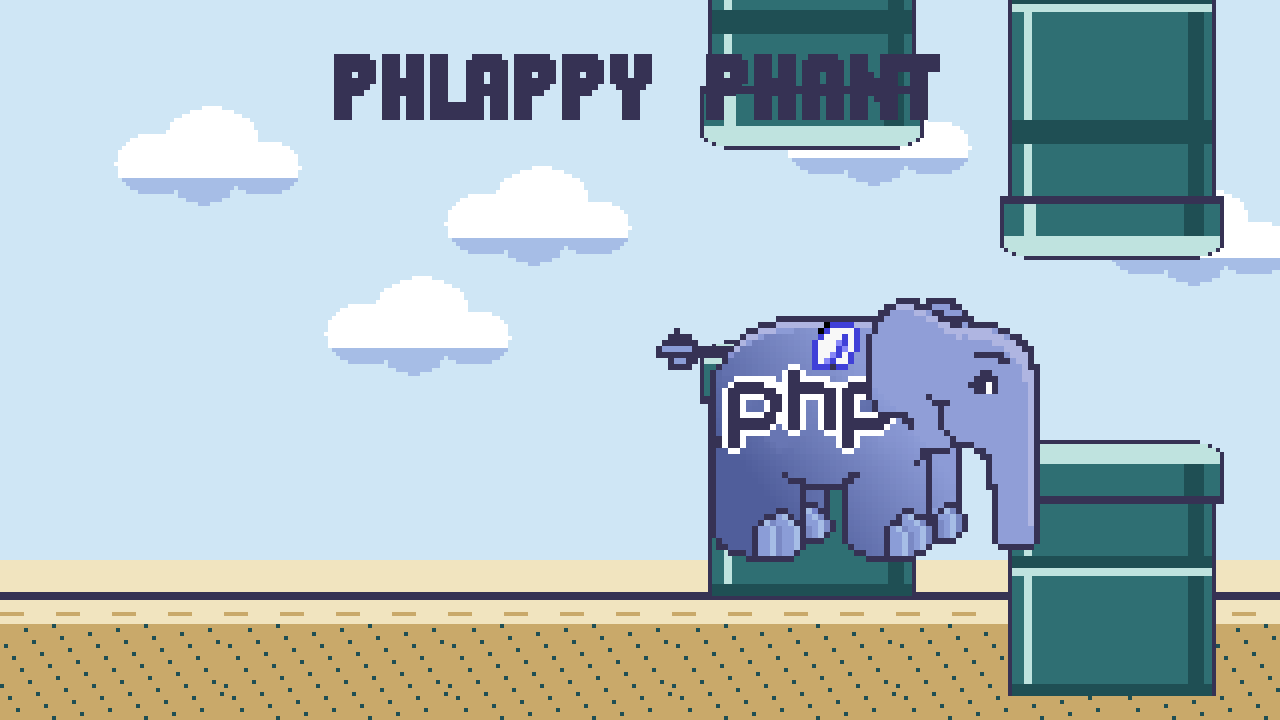
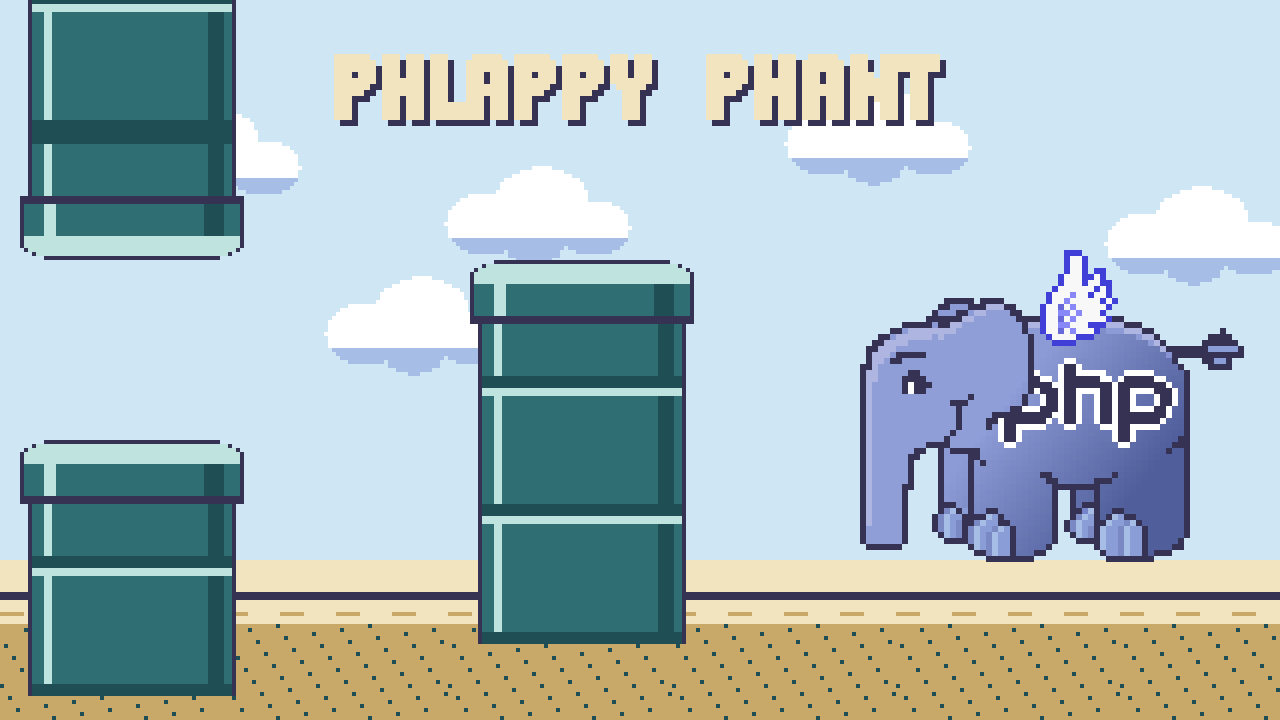
Phlappy Phant: fly leftward on the left-facing frames, with a few wing beats per flap
The traced sheet now carries two rows of two frames; the game uses the left-facing bottom row and the scene mirrors so the phant flies leftward with the barrels coming from the left, its right edge 28 % of the visible width in from the right (the status viewport reports that edge and the spec checks it). After each flap the wing beats three times at 45 ms per frame, then rests folded. The poster keeps the same arrangement.

diff --git a/games/phlappy-phant/src/Render/Scene.php b/games/phlappy-phant/src/Render/Scene.php
@@ -36,7 +36,7 @@ final class Scene
 
 	/** Accessible hit regions published by the menu renderer. */
 	public array $regions = [];
-	/** Output width and height, logical scale, and the phant's screen x. */
+	/** Output width and height, logical scale, and the screen x of the phant's right edge. */
 	public array $viewport = [0, 0, 1, 0];
 	private Atlas $atlas;
 	private Atlas $fontAtlas;
@@ -113,8 +113,11 @@ final class Scene
 		$scale = (float)$k;
 		$visible = $width / $scale;
 		$offsetY = $height / $scale - Simulation::HEIGHT;
+		// The phant faces left and flies leftward: world x grows toward the left edge of the screen, and the phant's
+		// right edge sits about 28 % of the visible width in from the right.
 		$phantX = max(60.0, min(200.0, .28 * $visible));
-		$this->viewport = [$width, $height, $scale, $phantX * $scale];
+		$right = $width - $phantX * $scale;
+		$this->viewport = [$width, $height, $scale, $right];
 		$camera = new Camera(0, 0, $width, $height);
 
 		$elapsed = max(0, min(.25, $seconds - $this->blendClock));
@@ -142,13 +145,15 @@ final class Scene
 			if($x < -self::TILE_W) $x += $count * $period;
 			if($x > $visible + self::TILE_W) continue;
 
-			$sprites[] = $this->tile(self::GID_CLOUD, $x * $scale, (20 + ($i * 53) % $skyBand) * $scale, $scale, $tint);
+			$sprites[] = $this->tile(
+				self::GID_CLOUD, $width - ($x + self::TILE_W) * $scale, (20 + ($i * 53) % $skyBand) * $scale, $scale, $tint
+			);
 		}
 
 		foreach($game->barrels as $barrel)
 		{
 			$bx = $barrel->previousX + ($barrel->x - $barrel->previousX) * $alpha;
-			$screenX = ($phantX + $bx) * $scale;
+			$screenX = $right - ($bx + self::TILE_W) * $scale;
 
 			if($screenX > $width || $screenX + self::TILE_W * $scale < 0) continue;
 
@@ -176,15 +181,16 @@ final class Scene
 
 		for($x = -$groundShift; $x < $visible; $x += self::TILE_W)
 		{
-			$sprites[] = $this->tile(self::GID_GROUND, $x * $scale, (Simulation::GROUND_Y + $offsetY) * $scale, $scale, $tint);
-			$sprites[] = $this->tile(self::GID_GROUND, $x * $scale, (Simulation::GROUND_Y + self::TILE_H + $offsetY) * $scale, $scale, $tint);
+			$screenX = $width - ($x + self::TILE_W) * $scale;
+			$sprites[] = $this->tile(self::GID_GROUND, $screenX, (Simulation::GROUND_Y + $offsetY) * $scale, $scale, $tint);
+			$sprites[] = $this->tile(self::GID_GROUND, $screenX, (Simulation::GROUND_Y + self::TILE_H + $offsetY) * $scale, $scale, $tint);
 		}
 
 		{
 			$y = $game->previousY + ($game->y - $game->previousY) * $alpha;
 			$phant = new Sprite(
 				self::GID_PHANT + $game->frame
-				, ($phantX + Simulation::PHANT_W / 2) * $scale
+				, $right - Simulation::PHANT_W / 2 * $scale
 				, ($y + Simulation::PHANT_H / 2 + $offsetY) * $scale
 				, .5
 				, .5
@@ -196,13 +202,13 @@ final class Scene
 			if($game->phase === 'dead')
 			{
 				$this->deathSpin = min(1.0, $this->deathSpin + $elapsed * 3);
-				$phant->rotation = M_PI / 2 * $this->deathSpin;
+				$phant->rotation = -M_PI / 2 * $this->deathSpin;
 				$phant->flipY = $this->deathSpin >= 1;
 			}
 			else
 			{
 				$this->deathSpin = 0;
-				$phant->rotation = $game->phase === 'playing' ? max(-.45, min(1.2, $game->vy / 600)) : 0.0;
+				$phant->rotation = $game->phase === 'playing' ? -max(-.45, min(1.2, $game->vy / 600)) : 0.0;
 			}
 
 			$sprites[] = $phant;

diff --git a/games/phlappy-phant/src/Simulation.php b/games/phlappy-phant/src/Simulation.php
@@ -35,7 +35,8 @@ final class Simulation
 	public const GAP_MARGIN = 40;
 	public const NIGHT_EVERY = 10;
 	public const DEAD_SETTLE = .6;
-	public const WING_DOWN = .14;
+	public const WING_BEATS = 3;
+	public const WING_BEAT = .09;
 
 	/** One of ready, playing, or dead. */
 	public string $phase = 'ready';
@@ -46,7 +47,7 @@ final class Simulation
 	public float $scroll = 0;
 	/** Seconds since the run began, for the idle bob and ear animation. */
 	public float $age = 0;
-	/** Wing frame: zero up, one down for a moment after each flap. */
+	/** Wing frame: zero folded, one spread; the wing beats a few times after each flap, then rests folded. */
 	public int $frame = 0;
 	public int $score = 0;
 	/** Zero for day, one for night. */
@@ -160,7 +161,9 @@ final class Simulation
 
 			$this->vy = min(self::MAX_FALL, $this->vy + self::GRAVITY * self::STEP);
 			$this->y = max(0, $this->y + $this->vy * self::STEP);
-			$this->frame = $this->age - $this->flappedAt < self::WING_DOWN ? 1 : 0;
+			$since = $this->age - $this->flappedAt;
+			$this->frame = $since < self::WING_BEATS * self::WING_BEAT && (int)floor($since / (self::WING_BEAT / 2)) % 2 === 0
+				? 1 : 0;
 			$speed = self::speedFor($this->score);
 
 			foreach($this->barrels as $barrel) $barrel->x -= $speed * self::STEP;

diff --git a/games/phlappy-phant/tests/run.php b/games/phlappy-phant/tests/run.php
@@ -36,9 +36,12 @@ $idle->step(true);
 check($idle->phase === 'playing', 'the first flap starts the run');
 check(abs($idle->vy - (Simulation::FLAP_VY + Simulation::GRAVITY * Simulation::STEP)) < 1e-9, 'a flap sets the rise before gravity applies');
 check($idle->consumeEvents() === ['flap'], 'the first flap is reported once');
-check($idle->frame === 1, 'the wing drops on a flap');
-for($i = 0; $i < 12; $i++) $idle->step();
-check($idle->frame === 0, 'the wing lifts again shortly after');
+check($idle->frame === 1, 'the wing spreads on a flap');
+$beats = 0;
+$previous = $idle->frame;
+for($i = 0; $i < 30; $i++) { $idle->step(); if($idle->frame !== $previous) $beats++; $previous = $idle->frame; }
+check($beats >= 4 && $beats <= 6, 'the wing beats a few times after a flap');
+check($idle->frame === 0, 'the wing rests folded afterwards');
 check($idle->consumeEvents() === [], 'events are cleared once consumed');
 
 $falling = new Simulation(1);

diff --git a/games/phlappy-phant/docs/architecture.md b/games/phlappy-phant/docs/architecture.md
@@ -8,7 +8,7 @@ Native PHP tests cover the generator, the idle bob, the first flap, gravity and 
 
 ## Viewport-filling rendering
 
-`Render\Scene` draws the 480-unit world at the largest whole-number scale that keeps the playable 440 units in view, anchored to the ground (a taller frame shows more sky), and derives the visible width from the frame, placing the phant at about 28 % of that width (clamped). Labels, the title wordmark and the shared menu renderer use whole-number scales too, so the bitmap glyphs and tiles are never resampled. It draws the horizon band, parallax clouds, each barrel pair as stacked cap and ring tiles, the scrolling ground and the phant, whose rotation follows its vertical velocity and which tumbles when dead. Day and night blend the device clear colour and a tint over the world. The HUD uses the engine bitmap font through a cached glyph layout, and menus come from the shared `MenuRenderer`, whose hit regions the browser mirrors as accessible buttons.
+`Render\Scene` draws the 480-unit world at the largest whole-number scale that keeps the playable 440 units in view, anchored to the ground (a taller frame shows more sky), and derives the visible width from the frame, with the left-facing phant flying leftward, its right edge about 28 % of that width in from the right (clamped). Labels, the title wordmark and the shared menu renderer use whole-number scales too, so the bitmap glyphs and tiles are never resampled. It draws the horizon band, parallax clouds, each barrel pair as stacked cap and ring tiles, the scrolling ground and the phant, whose rotation follows its vertical velocity and which tumbles when dead. Day and night blend the device clear colour and a tint over the world. The HUD uses the engine bitmap font through a cached glyph layout, and menus come from the shared `MenuRenderer`, whose hit regions the browser mirrors as accessible buttons.
 
 ## Browser boundary
 

diff --git a/games/phlappy-phant/README.md b/games/phlappy-phant/README.md
@@ -2,7 +2,7 @@
 
 A pixel-art Flappy Bird homage built with Phonics. The elePHPant flaps between stacks of DB silo barrels; every ten barrels the sky turns from day to night. A deterministic fixed-step PHP simulation owns the flight, the seeded barrel gaps, collisions and the score; the browser module supplies taps, sounds, fullscreen, the local best score and accessible menu hit targets.
 
-Unlike the letterboxed games, Phlappy Phant fills whatever frame it is given: the world is 480 logical units tall and as wide as the frame's aspect allows, so a phone in portrait and a widescreen desktop both play the same game and only see different amounts of the road ahead.
+The phant flies leftward, the way the art faces. Unlike the letterboxed games, Phlappy Phant fills whatever frame it is given: the world is 480 logical units tall and as wide as the frame's aspect allows, so a phone in portrait and a widescreen desktop both play the same game and only see different amounts of the road ahead.
 
 ## Credits
 
